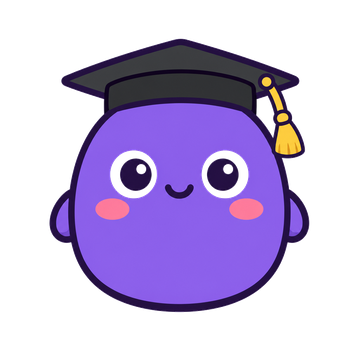
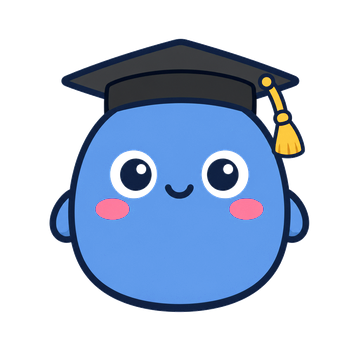
Recolor site to the Registrar cobalt/navy palette + fix collapsed level-card bars
Design (owner call "Cobalt", 2026-08-26): swap the violet token VALUES to
cobalt/navy (#2648db primary, #1b2b50 ink) while keeping the token names, so
no component changes. The semantic accents (amber/teal/pink/orange/ok) are kept
vibrant on purpose — they carry the difficulty pills and are the page's colour
variety; draining them is what made the earlier recolor read flat. Shadows,
disabled state, doc text and the preview pill re-tinted navy; --faint remeasured
to #697088 (4.9:1 white / 4.6:1 wash, passes AA). Rampy + OG card + icons
HSV-shifted purple→cobalt (real art, hue-rotated; pink cheeks/white eyes kept).

Fix: the level-card bars could be stranded at scaleX(0). The card sits in the
always-in-view hero, so a "top 85%" ScrollTrigger can be created already-past
its start and never fire; and a hidden/backgrounded tab freezes rAF, so hiding
the bars first left them collapsed forever. Bars now default to their filled CSS
state and only hide-then-reveal once the tab is actually painting (else on first
focus), so they can never get stuck invisible.

Verified locally: palette resolves, bars fill, hero CTA + best-plan border
cobalt, no console errors, no purple/plum hex left in source.

Changed region(s): [[0.1528, 0.275, 0.8556, 0.8556]]

diff --git a/assets/site.css b/assets/site.css
@@ -1,18 +1,21 @@
 /* RampUp — shared design system for the marketing site and the funnel.
    One file so the homepage, onboarding, terms and privacy cannot drift apart. */
 :root{
-  --violet:#6d3fa0; --violet-strong:#5a2f86; --violet-soft:#f5eef9; --lav:#b48fc9;
-  --ink:#201631; --muted:#6b5f78;
-  /* --faint measured 2026-08-13: #7a7590 was 4.40:1 on white and 4.10:1 on the
-     wash background, failing WCAG AA (4.5) for the real text that uses it —
-     .tiny, .cta-note, .lc-sub, .catname, the reveal stat labels. #71707b is
-     4.55 on wash / 4.88 on white, and deliberately stays LIGHTER than --muted
-     (6.10 on wash) so the three-tier type hierarchy survives the fix. */
-  --faint:#776a83;   /* 5.03:1 white / 4.70:1 wash — re-verified for the plum palette */
-  --line:#ece3f2; --bg:#ffffff; --wash:#faf6fb;
+  /* Registrar cobalt/navy palette (owner call: "Cobalt", 2026-08-26). The token
+     names stay --violet* so no component has to change; they now hold cobalt +
+     navy. The semantic accents below (amber/teal/pink/orange/ok) are UNCHANGED
+     on purpose — they are the site's colour variety and carry the difficulty
+     pills; draining them is what made the first recolor read flat. */
+  --violet:#2648db; --violet-strong:#1c37b8; --violet-soft:#eef1fe; --lav:#a9b6ef;
+  --ink:#1b2b50; --muted:#5c6784;
+  /* --faint re-measured 2026-08-26 for the navy palette: #697088 is 4.91:1 on
+     white / 4.62:1 on wash (both pass WCAG AA 4.5) and stays LIGHTER than
+     --muted (#5c6784, 5.3:1 on wash) so the three-tier type hierarchy holds. */
+  --faint:#697088;   /* 4.91:1 white / 4.62:1 wash — navy palette */
+  --line:#e6e8f2; --bg:#ffffff; --wash:#f6f8fd;
   --amber:#f59e0b; --teal:#0d9488; --pink:#db2777; --orange:#ea580c; --ok:#0d9f6e;
   --r:14px; --r-lg:20px; --r-xl:26px;
-  --shadow:0 1px 2px rgba(32,22,49,.06), 0 8px 28px rgba(32,22,49,.08);
+  --shadow:0 1px 2px rgba(27,43,80,.06), 0 8px 28px rgba(27,43,80,.09);
   --maxw:1080px;
   --ease-standard:cubic-bezier(.2,.8,.2,1); --dur-fast:200ms; --dur-panel:350ms;
   --font-display:"Crimson Pro",ui-serif,Georgia,"Times New Roman",serif;
@@ -81,7 +84,7 @@ h3{font-family:var(--font-display); font-size:19px; font-weight:700; line-height
 /* opacity alone left the primary button looking like a paler purple button,
    i.e. still tappable. A disabled control should read as grey and inert. */
 .btn[disabled],.btn[aria-disabled="true"]{
-  background:#e6e3ef !important; color:#8b8798 !important;
+  background:#e7e9f1 !important; color:#8a91a4 !important;
   cursor:not-allowed; box-shadow:none !important;
 }
 .btn[disabled] .arw{opacity:.6}
@@ -164,7 +167,7 @@ section{padding:72px 0}
   font-size:11.5px; font-weight:820; letter-spacing:.055em; text-transform:uppercase;
   padding:5px 11px; border-radius:99px; white-space:nowrap;
 }
-.p-preview{background:#f3ecff; color:#6d28d9}
+.p-preview{background:#eceff6; color:#4a5578}
 .p-easy{background:#e4f7ee; color:#0b7a56}
 .p-medium{background:#e3f0fd; color:#1668b8}
 .p-hard{background:#fdf0dd; color:#a35b00}
@@ -275,7 +278,7 @@ footer{border-top:1px solid var(--line); padding:40px 0 56px; background:var(--b
 .doc{max-width:720px; margin:0 auto; padding:44px 20px 72px}
 .doc h1{font-size:clamp(27px,4.4vw,36px); margin-bottom:6px}
 .doc h2{font-size:19px; margin:30px 0 8px}
-.doc p,.doc li{color:#2c2648; font-size:16px; line-height:1.68}
+.doc p,.doc li{color:#24304d; font-size:16px; line-height:1.68}
 .doc ul{padding-left:22px}
 .doc .updated{color:var(--faint); font-size:14px; margin-bottom:26px}
 .doc table{width:100%; border-collapse:collapse; margin:14px 0; font-size:15px}
@@ -324,13 +327,13 @@ footer{border-top:1px solid var(--line); padding:40px 0 56px; background:var(--b
 /* ---- tactile polish (feel audit 2026-08-14): transform/shadow only, global
    reduced-motion kill switch above already covers all of it ---- */
 .card,.stat,.step{transition:transform .22s cubic-bezier(.2,0,0,1), box-shadow .22s cubic-bezier(.2,0,0,1)}
-.card:hover,.stat:hover,.step:hover{transform:translateY(-4px); box-shadow:0 16px 34px rgba(24,18,49,.13)}
+.card:hover,.stat:hover,.step:hover{transform:translateY(-4px); box-shadow:0 16px 34px rgba(27,43,80,.13)}
 .btn{transition:transform .16s cubic-bezier(.2,0,0,1), box-shadow .22s ease, background .18s ease, border-color .18s ease}
 .btn:hover{transform:translateY(-2px)}
 .btn:active{transform:translateY(0)}
 .hero .btn-primary:hover,.price-cta .btn-primary:hover{box-shadow:none}
 .plan{transition:border-color .16s, box-shadow .16s, transform .18s cubic-bezier(.2,0,0,1)}
-.plan:hover{transform:translateY(-3px); box-shadow:0 14px 30px rgba(24,18,49,.12)}
+.plan:hover{transform:translateY(-3px); box-shadow:0 14px 30px rgba(27,43,80,.12)}
 
 
 /* ==========================================================================
@@ -352,7 +355,7 @@ footer{border-top:1px solid var(--line); padding:40px 0 56px; background:var(--b
   --s-6:32px; --s-7:48px; --s-8:64px; --s-9:88px; --s-10:120px;
   --hair:1px solid var(--line);
   --sec-y:clamp(56px, 7.5vw, 88px);
-  --lift:0 1px 2px rgba(24,18,49,.04), 0 20px 44px -22px rgba(24,18,49,.22);
+  --lift:0 1px 2px rgba(27,43,80,.04), 0 20px 44px -22px rgba(27,43,80,.22);
 }
 
 /* ---- section rhythm: hairline rules, never colour blocks ---- */

diff --git a/assets/motion-home.js b/assets/motion-home.js
@@ -49,20 +49,38 @@
   var rows = gsap.utils.toArray(".levelcard .lvl-row", card);
   var bars = rows.map(function (r) { return r.querySelector(".lvl-bar i"); });
 
-  gsap.set(bars, { scaleX: 0, transformOrigin: "left center" });
+  var played = false;
+  function play() {
+    if (played) return; played = true;
+    gsap.timeline({ defaults: { ease: "power3.out" } })
+      .from(card.querySelectorAll("h3, .lc-sub"), { autoAlpha: 0, y: 10, duration: 0.4 })
+      .from(rows, { autoAlpha: 0, x: -14, duration: 0.45, stagger: 0.08 }, 0.15)
+      .to(bars, { scaleX: 1, duration: 0.7, stagger: 0.08, ease: "power2.out" }, "-=0.35")
+      .from(card.querySelector(".tiny"), { autoAlpha: 0, y: 6, duration: 0.4 }, "-=0.25");
+  }
 
-  ScrollTrigger.create({
-    trigger: card,
-    start: "top 85%",
-    once: true,
-    onEnter: function () {
-      gsap.timeline({ defaults: { ease: "power3.out" } })
-        .from(card.querySelectorAll("h3, .lc-sub"), { autoAlpha: 0, y: 10, duration: 0.4 })
-        .from(rows, { autoAlpha: 0, x: -14, duration: 0.45, stagger: 0.08 }, 0.15)
-        .to(bars, { scaleX: 1, duration: 0.7, stagger: 0.08, ease: "power2.out" }, "-=0.35")
-        .from(card.querySelector(".tiny"), { autoAlpha: 0, y: 6, duration: 0.4 }, "-=0.25");
-    }
-  });
+  /* The bars' CSS default is FILLED. We only hide-then-reveal them once the tab
+     is actually painting — a hidden/backgrounded tab freezes rAF, so hiding
+     first would strand the bars at scaleX(0) forever (the owner-reported
+     collapsed-bars bug). And because the card sits in the always-in-view hero,
+     a plain "top 85%" trigger can be created already-past its start and never
+     fire; so when the card is on screen we play immediately instead. */
+  function armWhenVisible() {
+    gsap.set(bars, { scaleX: 0, transformOrigin: "left center" });
+    var vh = window.innerHeight || document.documentElement.clientHeight;
+    if (card.getBoundingClientRect().top < vh * 0.9) play();
+    else ScrollTrigger.create({ trigger: card, start: "top 85%", once: true, onEnter: play });
+  }
+
+  if (document.visibilityState === "visible") {
+    armWhenVisible();
+  } else {
+    document.addEventListener("visibilitychange", function onVis() {
+      if (document.visibilityState !== "visible") return;
+      document.removeEventListener("visibilitychange", onVis);
+      armWhenVisible();
+    });
+  }
 })();
 
 /* SCENE 3 — Scroll-pinned "how it works" ladder. Desktop only; scrub means the

diff --git a/assets/og-card.src.html b/assets/og-card.src.html
@@ -12,7 +12,7 @@
   body{
     display:flex;align-items:center;
     font-family:"Helvetica Neue",Helvetica,Arial,sans-serif;
-    background:linear-gradient(135deg,#7c3aed 0%,#6d28d9 55%,#5b21b6 100%);
+    background:linear-gradient(135deg,#3a5bef 0%,#2648db 55%,#1c37b8 100%);
     color:#fff;position:relative;
   }
   /* the same soft circles the site uses on its violet bands */
